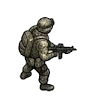
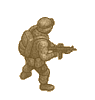
fix: tint soldier and buggy sprites so they don't vanish against dark terrain
Per user report: soldiers were effectively invisible in play. Both
sprites' natural color (mean RGB ~71-82, low saturation olive/khaki) was
almost identical to the trench's own dirt tone, and the soldier sprite is
tiny to begin with (~95x100px source, drawn smaller still) -- so it
disappeared into the dark terrain the same way the player towers used to
before their own tint fix. Warmed both toward a tan/amber tone (soldier
tinted more strongly, since it's the smaller sprite) so they read as
distinct enemy units against grass and dirt alike.

Changed region(s): [[0.1895, 0.15, 0.8211, 0.93]]

diff --git a/tools/extract_assets.py b/tools/extract_assets.py
@@ -243,6 +243,12 @@ def extract_enemies():
         (lx0 - buggy_box[0], ly0 - buggy_box[1], lx1 - buggy_box[0], ly1 - buggy_box[1])
         for (lx0, ly0, lx1, ly1) in label_boxes_orig
     ])
+    # Like the player towers, the source art's natural olive/khaki tone
+    # (mean RGB ~71,70,60) is dark and low-saturation -- almost identical
+    # to the trench's own dirt color, so at the tiny on-screen draw size
+    # it effectively disappears against the terrain. Warm the tint up so
+    # it reads as a distinct enemy unit against both grass and dirt.
+    buggy_rgba = tint_toward(buggy_rgba, (195, 140, 70), strength=0.35)
     downscale(buggy_rgba).save(OUT / "enemy_buggy.png")
 
     soldier_box = (895, 450, 990, 550)
@@ -252,6 +258,12 @@ def extract_enemies():
         (lx0 - soldier_box[0], ly0 - soldier_box[1], lx1 - soldier_box[0], ly1 - soldier_box[1])
         for (lx0, ly0, lx1, ly1) in label_boxes_orig
     ])
+    # Same problem as the buggy, worse: at only ~95x100px before downscale
+    # (drawn smaller still in-game than any other sprite), a dark
+    # camo-green soldier on dark trench dirt was reported as effectively
+    # invisible. A stronger, warmer tint than the buggy's gives the small
+    # sprite some color to read even at a few pixels tall.
+    soldier_rgba = tint_toward(soldier_rgba, (215, 165, 80), strength=0.5)
     downscale(soldier_rgba).save(OUT / "enemy_soldier.png")
 
 
